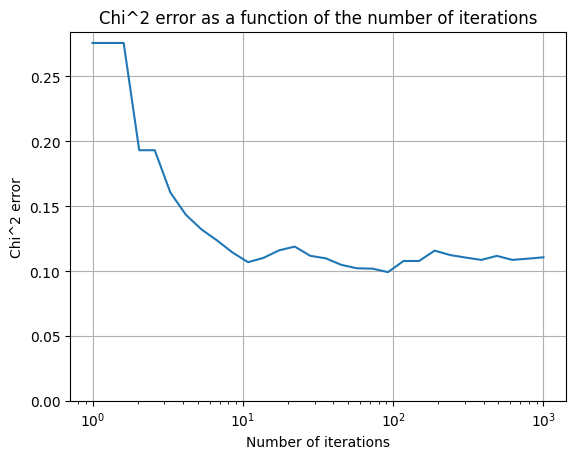
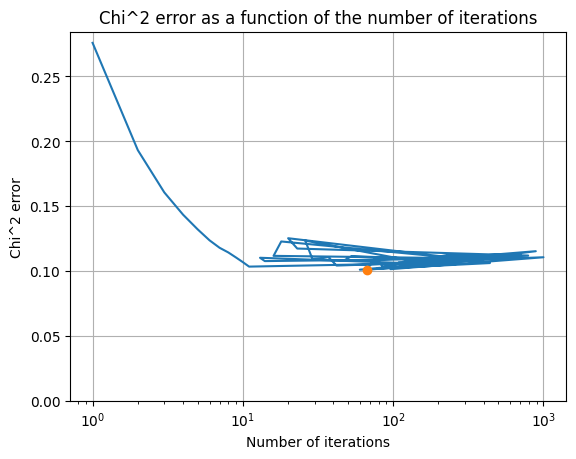
just generating more plotts

diff --git a/imagerestoration.py b/imagerestoration.py
@@ -39,7 +39,7 @@ def add_mask_of_text(ar):
     #make image to array
     mask=np.array(whiteblankimage)
     mask_save=Image.fromarray(mask*255)
-    C
+    mask_save=mask_save.convert('L')
     mask_save.save("mask_text.png")
 
 
@@ -142,15 +142,26 @@ def error_measure(mask, original, restored):
     #print(Chi_squared)
 
 print("Calculate the error\n\n")
-#error_measure(mask, ar, masked)
+print(error_measure(mask, ar, masked))
+
+number_pixels_masked = 0
+for n in range(len(mask)):
+    for m in range(len(mask[n])):
+        if mask[n][m] == 0:
+            number_pixels_masked += 1
+print("Number of pixels masked: ", number_pixels_masked)
+print("procentage of pixels masked: ", number_pixels_masked*100/(len(mask)*len(mask[0])))
+
 masked2=masked1
 error_from_steps=[]
 
 
-stepsize=np.logspace(0,3,30)
+stepsize=np.logspace(0,3,60)
+setpsize=[int(i) for i in stepsize]
+stepsize=list(set(setpsize))
+stepsize.sort()
 
-
-setpsize2=np.linspace(1,1000,10)
+setpsize2=(1,2,5,10,20,50,100,300,600,1000)
 maxvalud=len(stepsize)
 for i in (stepsize):
     i=int(i)
@@ -169,14 +180,21 @@ for i in (stepsize):
     error_from_steps.append(error)
     print(error)
     print("\n\n")
-plt.plot(stepsize,error_from_steps)
+plt.plot(stepsize,error_from_steps, label="iterations vs error")
 
+x=min(error_from_steps)
+y=stepsize[error_from_steps.index(x)]
+print("the minimum error is {} for {} iterations".format(x,y))
+plt.plot(y,x,marker="o",label="minimum error at {} iterations".format(y))
 #make a logorithim plot
 plt.grid()
 plt.ylim(0)
 plt.xscale("log")
+
 plt.xlabel("Number of iterations")
 plt.ylabel("Chi^2 error")
 plt.title("Chi^2 error as a function of the number of iterations")
 plt.savefig("error_vs_steps.png", bbox_inches='tight')
+#put legend i top right corner
+plt.legend(loc="upper right")
 plt.show()
